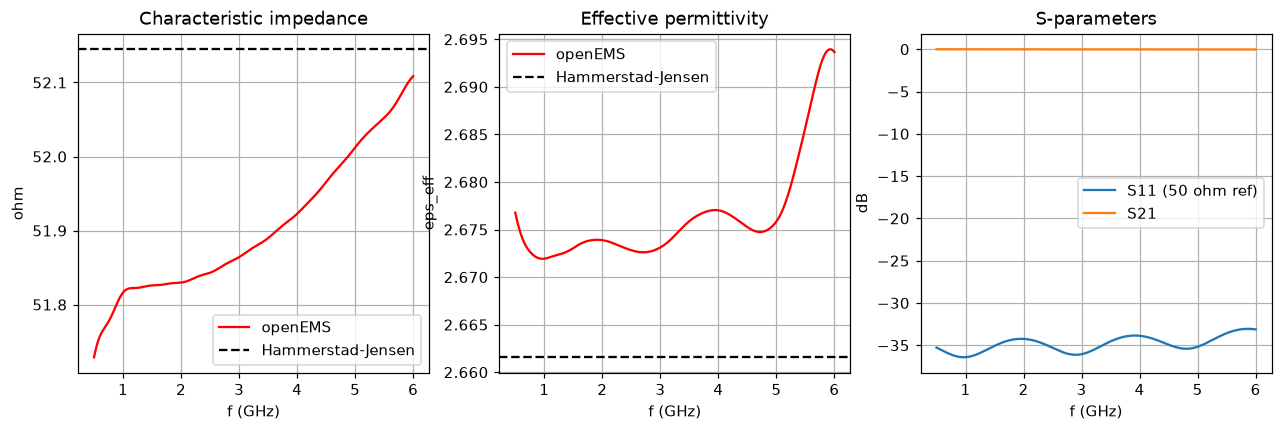
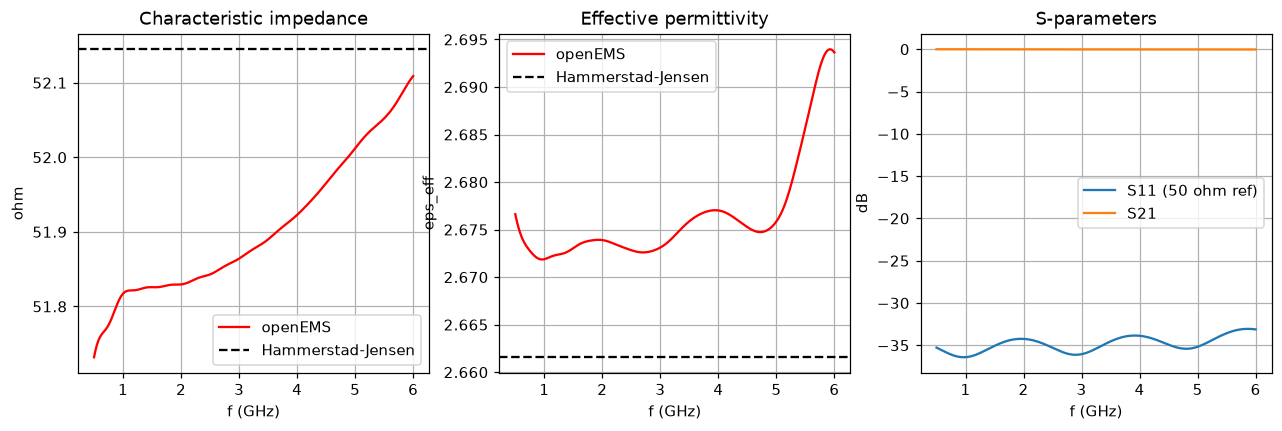
Record 4 mm sphere mesh study; refresh microstrip results after refactor

diff --git a/openems_validation/cases/pec_sphere_rcs.py b/openems_validation/cases/pec_sphere_rcs.py
@@ -9,7 +9,8 @@ Note the sphere is staircased on the Cartesian FDTD grid (HFSS uses curved tetra
 Mesh study (2026-10-31): uniform lambda/25 (12 mm) gives 0.83 dB RMS error; a 6 mm
 region around the sphere gives 0.40 dB. Remaining error is largest next to the deep
 nulls (ka ~ 1.75, 2.95), where a small shift in ka produces a large dB difference.
-A 4 mm run was attempted but stopped (host low on memory), so convergence below 6 mm is unverified.
+4 mm around the sphere: RMS 0.34 dB, ka=3 still -0.77 dB, so that error is not sphere
+staircasing; suspects are background-grid dispersion or the TF/SF / NF2FF box setup (unverified).
 """
 import sys, time
 from pathlib import Path

diff --git a/openems_validation/README.md b/openems_validation/README.md
@@ -46,8 +46,10 @@ Peak memory is ~1-2 GB (sphere case, 2.9 M cells).
   about res/8 and 10 cells across the substrate to get within 0.5 %. HFSS hides this with adaptive meshing; our
   tool will need an equivalent convergence loop.
 - **Sphere RCS has an error from the stepped (staircased) surface.** A 12 mm uniform grid gives 0.83 dB RMS; a
-  6 mm region around the sphere gives 0.40 dB. The remaining error sits next to the deep nulls. A 4 mm run was
-  stopped because the machine was low on memory, so convergence below 6 mm hasn't been verified.
+  6 mm region around the sphere gives 0.40 dB. The remaining error sits next to the deep nulls. A 4 mm region
+  (6.1 M cells, 6.5 min) gives 0.34 dB RMS but leaves ka=3 unchanged at −0.77 dB. So the ka=3 error doesn't
+  come from how finely the sphere is meshed. Unverified suspects: grid dispersion in the 12 mm background cells,
+  or the plane-wave/NF2FF box setup. 6 mm stays the default.
 - **Watch for stale far-field results.** `nf2ff.CalcNF2FF` reuses an existing result file by default
   (`read_cached=True`). That silently returned stale results after a mesh change; the sphere case passes
   `read_cached=False`.

diff --git a/openems_validation/results/SUMMARY.md b/openems_validation/results/SUMMARY.md
@@ -6,7 +6,7 @@ Generated 2026-10-31 by `run_all.py` — openEMS 0.37.0, Python 3.14.3, Windows 
 |---|---|---|
 | `wr90_waveguide` | PASS | 9 s |
 | `cavity_eigenmode` | PASS | 45 s |
-| `microstrip_line` | PASS | 87 s |
+| `microstrip_line` | PASS | 91 s |
 | `pec_sphere_rcs` | **FAIL** | 176 s |
 | `microstrip_adaptive` | PASS | 186 s |
 
@@ -55,9 +55,9 @@ HFSS equivalent: Driven Terminal, 2 wave ports, sweep 0.5-6 GHz (port Zo, gamma)
 
 | Metric | openEMS | Reference | Source | Error | Tolerance | |
 |---|---|---|---|---|---|---|
-| Z0 @ 2 GHz | 51.83 ohm | 52.145 | analytic | -0.604 % | ±2 % | ok |
+| Z0 @ 2 GHz | 51.83 ohm | 52.145 | analytic | -0.605 % | ±2 % | ok |
 | eps_eff @ 2 GHz | 2.6739 - | 2.6616 | analytic | +0.463 % | ±2 % | ok |
-| min |S21| 0.5-6 GHz (lossless) | -0.027476 dB | 0 | analytic | -0.0275 dB | ±0.2 dB | ok |
+| min |S21| 0.5-6 GHz (lossless) | -0.027477 dB | 0 | analytic | -0.0275 dB | ±0.2 dB | ok |
 
 - Reference is Hammerstad-Jensen (zero strip thickness, quasi-static).
 - no HFSS reference supplied (references/hfss/microstrip_line.csv); compared to analytic only
